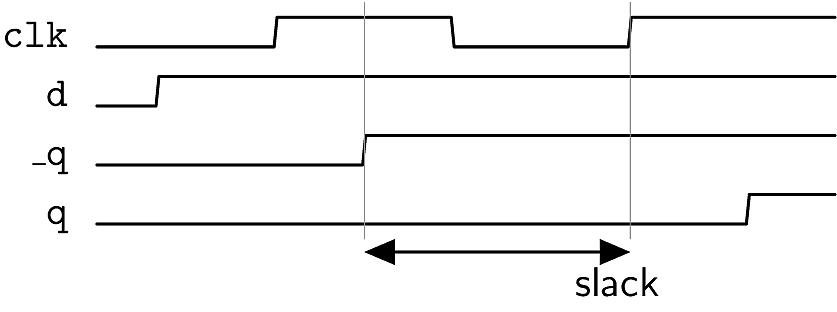
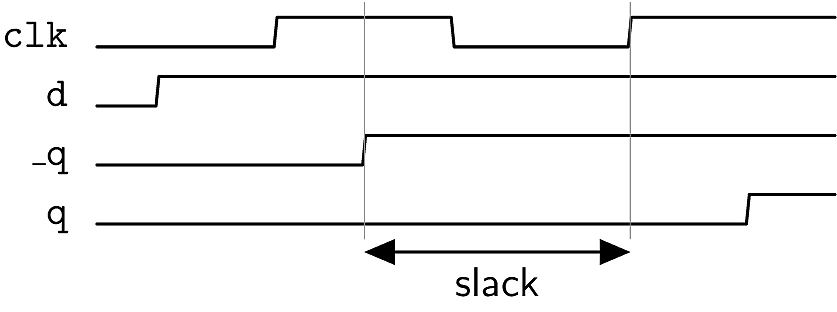
Updated 1_1_2

Changed region(s): [[0.6834, 0.8654, 0.8076, 0.9519], [0.5281, 0.8654, 0.6523, 0.9519]]

diff --git a/1_verilog/1_modules/2_build/assigned_tasks.html b/1_verilog/1_modules/2_build/assigned_tasks.html
@@ -340,7 +340,11 @@ All user specified timing constraints are met.
 <figure>
 <img src="figures/pipeline.png" alt="" /><figcaption>Diagram of a simple logic pipeline.</figcaption>
 </figure>
-<p>To do this, follow these steps:</p>
+<p>In this pipeline, the signal <code class="sourceCode verilog">_q</code> is connected between two registers: it is the output of D Register 1, and it is the input of D Register 2. Both of these registers are controlled by the same clock signal. When the external input <code class="sourceCode verilog">d</code> changes, Register 1 locks-in the new value upon the rising edge of <code class="sourceCode verilog">clk</code>. There is some physical delay before the new value appears on <code class="sourceCode verilog">_q</code>. Register 2 will lock-in the new value upon the rising edge of <code class="sourceCode verilog">clk</code>, so <code class="sourceCode verilog">_q</code> has to stabilize before the clock rises. If <code class="sourceCode verilog">_q</code> stablizes early, the extra time is called the slack:</p>
+<figure>
+<img src="figures/timing.png" alt="" /><figcaption>Illustration of timing slack in a signal pipeline.</figcaption>
+</figure>
+<p>To change your design and implement the signal pipeline, follow these steps:</p>
 <ul>
 <li>Create a new <strong>top</strong> module in the file <code class="sourceCode verilog">src/top.v</code></li>
 <li>In <code class="sourceCode verilog">src/top.v</code>, do the following:
